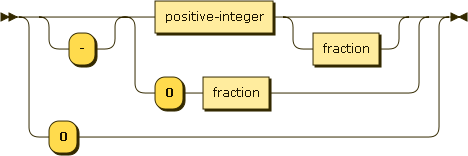
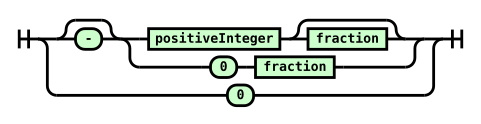
Update example.

diff --git a/README.md b/README.md
@@ -2,17 +2,15 @@
 
 [Backus-Naur form](https://en.wikipedia.org/wiki/Backus%E2%80%93Naur_form) is technique for describing context-free grammars.
 
-The difference in clarity between specifications using BNF and ones using informal English is enormous. The following [EBNF](https://en.wikipedia.org/wiki/Extended_Backus%E2%80%93Naur_form<Paste>) is unlikely to translate to brief English:
+The difference in clarity between specifications using BNF and ones using informal English is enormous. The following [EBNF](https://en.wikipedia.org/wiki/Extended_Backus%E2%80%93Naur_form) is unlikely to translate to brief English:
 ```
-number ::= minus? (positive-integer fraction? | zero fraction)
-         | zero
+number ::= "-"? (positiveInteger fraction? | "0" fraction)
+         | "0"
 ```
 
-And even if it was short it wouldn't let you generate this for free:
+And even if it was short it wouldn't let you generate this for free (using [GrammKit](https://github.com/dundalek/GrammKit)):
 
 ![Number](./example.png)
-
-The above diagram was made with [this webapp](http://www.bottlecaps.de/rr/ui). Unfortunately there's not a native program that generates nice, separate diagrams from BNF files.
 
 I think Haskell would be a natural fit for this kind of work, and so did a survey of the ecosystem to see what's been built so far. If no Haskell solution is available I list the best non-Haskell one.
 
